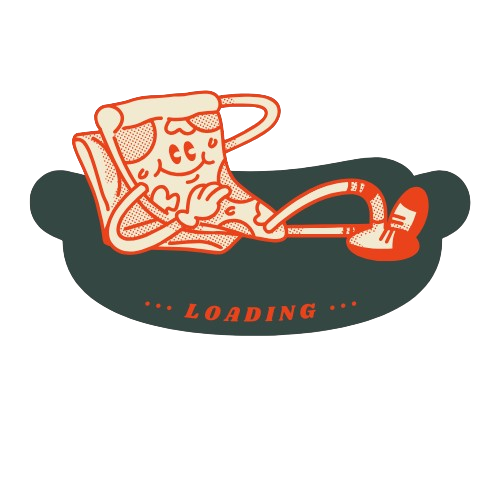
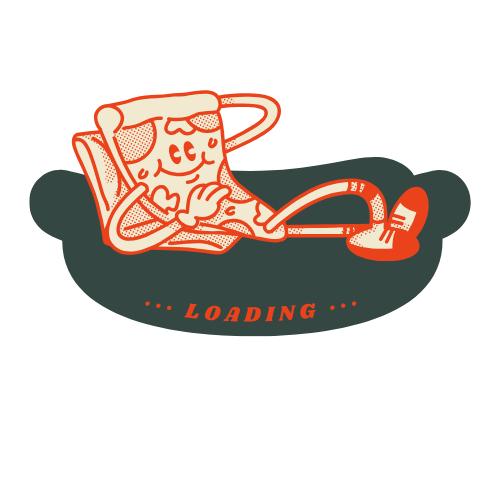
DD-97-refactor: 이미지 수정

diff --git a/src/components/Footer/footer.tsx b/src/components/Footer/footer.tsx
@@ -10,7 +10,7 @@ export default function Footer() {
     <footer className="flex justify-between p-20px tablet:p-30px pc:px-[238px] py-37px bg-gray10 mt-80px tablet:mt-60px pc:mt-60px">
       <div className="flex flex-col gap-40px tablet:flex-row pc:flex-row tablet:basis-1/2 pc:basis-1/2 tablet:justify-between pc:justify-between">
         <span className="order-3 font-normal tablet:order-none pc:order-none text-16px text-gray50">
-          @codeit - 2023
+          @codeit - 2024
         </span>
         <div className="flex items-center gap-40px">
           <span className="font-normal text-16px text-gray50">

diff --git a/src/pages/_app.tsx b/src/pages/_app.tsx
@@ -3,7 +3,7 @@ import type { AppProps } from 'next/app';
 import Image from 'next/image';
 import { useState, useEffect } from 'react';
 import { RecoilRoot, MutableSnapshot } from 'recoil';
-import LoadingImage from '@/../../public/loading-arbaba2.png';
+import LoadingImage from '@/../../public/loading-arbaba.png';
 import Footer from '@/components/Footer/footer';
 import Gnb from '@/components/Gnb/Gnb';
 import ModalsWrapper from '@/components/Modal/ModalsWrapper';
